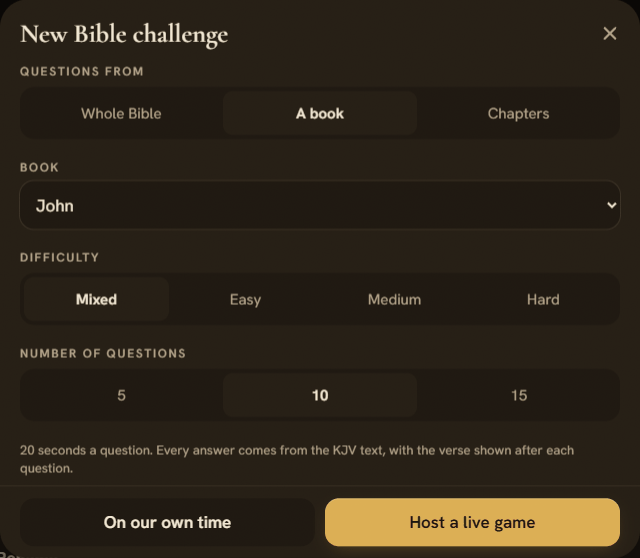
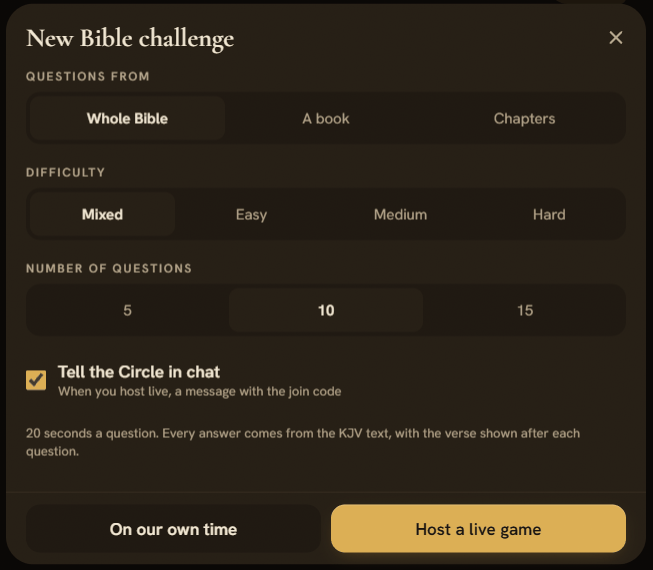
README: signed-in screenshots of Circles, chat, sharing, the Bible challenge, Listen, and the mascot

diff --git a/README.md b/README.md
@@ -55,16 +55,15 @@ In the KJV, the words of Jesus show in green italics and the words God speaks di
 
 Select verses by dragging, by long-pressing and dragging on a phone, or with **Select more**. Tap a color to highlight them as one passage. **Share** sends the passage to your Circles, with your note and its summary if you choose.
 
-<table>
-  <tr>
-    <td><img src="docs/screenshots/phone-select-verses.png" alt="John 3:16 to 18 selected on a phone, with the verse bar showing Select more, four colors, Note, Copy, and Share" width="260"></td>
-    <td><img src="docs/screenshots/phone-share-sheet.png" alt="The Share to a Circle sheet for John 3:16 to 18" width="260"></td>
-  </tr>
-</table>
+<img src="docs/screenshots/phone-select-verses.png" alt="John 3:16 to 18 selected on a phone, with the verse bar showing Select more, four colors, Note, Copy, and Share" width="260">
+
+<img src="docs/screenshots/share-sheet.png" alt="Jeremiah 50:19 to 23 highlighted in gold, with the Share to a Circle sheet open and the Mens Group Circle ticked" width="700">
 
 ### Listen
 
 **Listen** reads any chapter aloud and underlines the verse being read. Choose the free device voice or the natural voice, change the speed, and skip from verse to verse. The Listen button is always in the bottom bar on phones and the top bar on desktop.
+
+<img src="docs/screenshots/listen-button.png" alt="Jeremiah 50 with the Listen to Jeremiah 50 button under the chapter number, above the In this chapter card" width="700">
 
 <img src="docs/screenshots/phone-listen.png" alt="John 11 on a phone with the Listen player open: play, previous and next verse, speed, and the device or natural voice" width="260">
 
@@ -85,16 +84,24 @@ Each chapter has an "In this chapter" note, a "Before you read" context card, an
   </tr>
 </table>
 
+When you finish a chapter, the mascot cheers you on. You can turn its celebrations off on Me.
+
+<img src="docs/screenshots/chapter-done-mascot.png" alt="Genesis 3 is read, 2 of 3 today, with the mascot saying Lamp's a little brighter. Nice work!" width="700">
+
 - **Pray** writes a short prayer from the chapters you read recently and always ends "In Jesus' Name, Amen."
 - **Make a song:** Claude writes original lyrics from your last three chapters, and ElevenLabs Music sings them in about 70 seconds. You need an account, and you can make three songs a day.
 
 ### Circles and the Bible challenge
 
-Circles are private, invite-only groups. See who has read today, send gentle nudges, chat, and share highlights. Messages and nudges show up under the bell and can also be emailed.
+Circles are private, invite-only groups. See who has read today, send gentle nudges, chat, and share highlights. Messages and nudges show up under the bell and can also be emailed. Tapping a Circle opens its chat at the first message you haven't read.
+
+<img src="docs/screenshots/circles.png" alt="Circles: a nudge saying Quick chapter together?, the Mens Group Circle with 1 of 2 lamps lit today, and the New Circle and Join a game buttons" width="900">
+
+<img src="docs/screenshots/circle-chat.png" alt="The Mens Group chat: a New messages line and a message saying Started a Bible challenge with the join code, and the verse and trophy buttons beside the message box" width="520">
 
 The **Bible challenge** is a quiz your Circle plays together. Start one from the Circle's page or from the trophy in its chat. Host a live game with a join code, a timer, a leaderboard, and a podium, or play the same questions on your own time and compare scores.
 
-<img src="docs/screenshots/challenge-setup.png" alt="The New Bible challenge sheet: questions from a book, John; Mixed difficulty; 10 questions; On our own time or Host a live game" width="480">
+<img src="docs/screenshots/challenge-setup.png" alt="The New Bible challenge sheet: questions from the whole Bible, Mixed difficulty, 10 questions, Tell the Circle in chat ticked, and On our own time or Host a live game" width="520">
 
 ### Guest first
 
